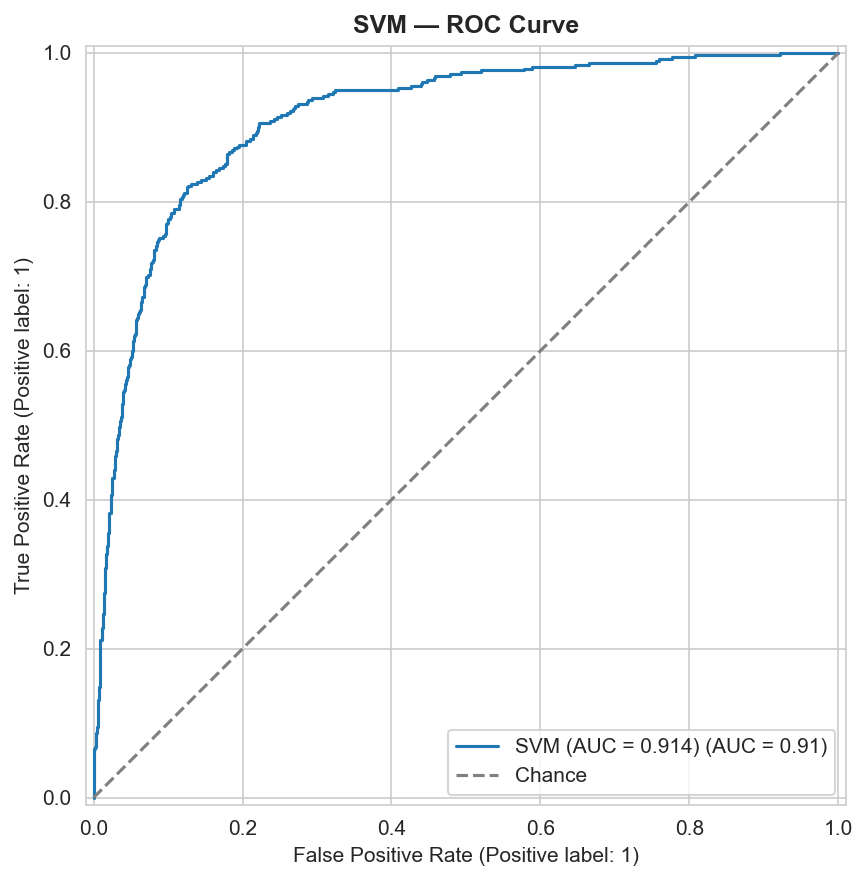
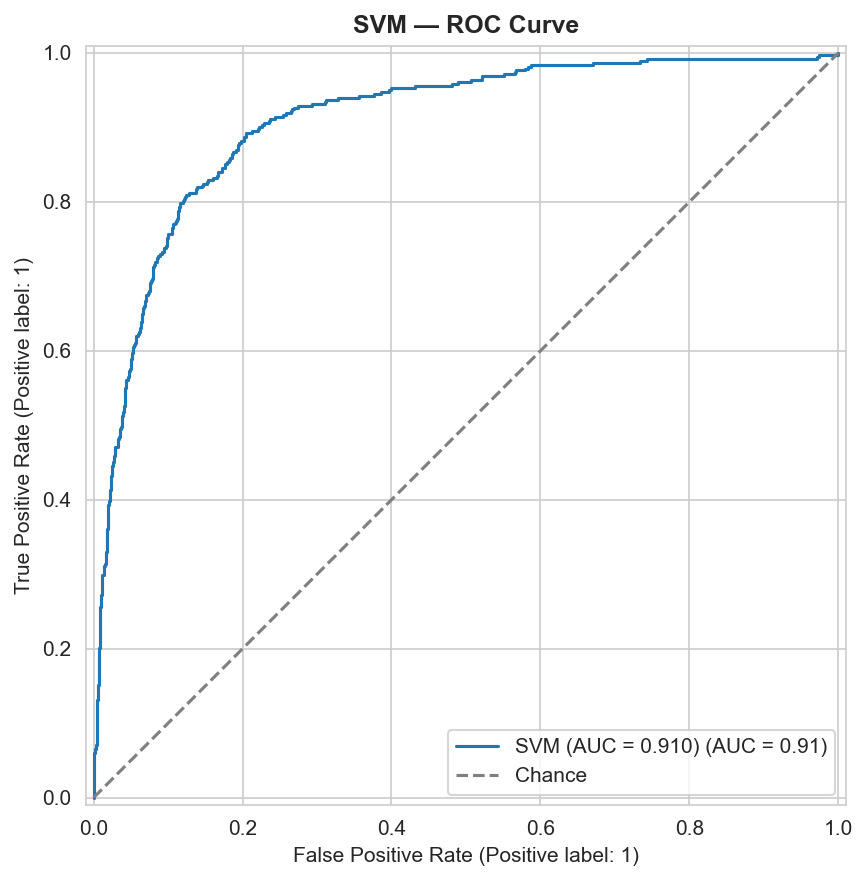
Expanding the Hyperparameter Search Space

diff --git a/models/svm_model.py b/models/svm_model.py
@@ -89,10 +89,10 @@ sns.set_style("whitegrid")
 # beats rbf/linear on this dataset and multiplies search time via the extra
 # 'degree' axis. Pass a custom param_grid to explore it if needed.
 DEFAULT_PARAM_GRID = {
-    "svm__C": [0.1, 1, 10],
+    "svm__C": [0.1, 1, 10,50,100],
     "svm__kernel": ["rbf", "linear"],
-    "svm__gamma": ["scale", "auto"],
-    "svm__class_weight": [None, "balanced"],
+    "svm__gamma": ["scale", "auto",0.01,0.1],
+    "svm__class_weight": ["balanced"],
 }
 
 
@@ -630,16 +630,16 @@ if __name__ == "__main__":
     # generate_shap_explanation() automatically uses KernelExplainer for SVC
     # (non-tree estimator), operating on already-transformed numpy arrays
     # (post-preprocessor) so no DataFrame column passthrough is needed.
-    print("\n[__main__] Generating SVM SHAP explanation plots...")
-    try:
-        generate_shap_explanation(
-            model=model,
-            X_test=X_test,
-            max_display=15,
-            save_dir=PLOT_DIR,
-            prefix="svm_",
-            show=False,
-        )
-        print("[__main__] SHAP plots saved successfully.")
-    except Exception as exc:
-        print(f"[__main__] SHAP explanation failed (non-fatal): {exc}")
+    # print("\n[__main__] Generating SVM SHAP explanation plots...")
+    # try:
+    #     generate_shap_explanation(
+    #         model=model,
+    #         X_test=X_test,
+    #         max_display=15,
+    #         save_dir=PLOT_DIR,
+    #         prefix="svm_",
+    #         show=False,
+    #     )
+    #     print("[__main__] SHAP plots saved successfully.")
+    # except Exception as exc:
+    #     print(f"[__main__] SHAP explanation failed (non-fatal): {exc}")
